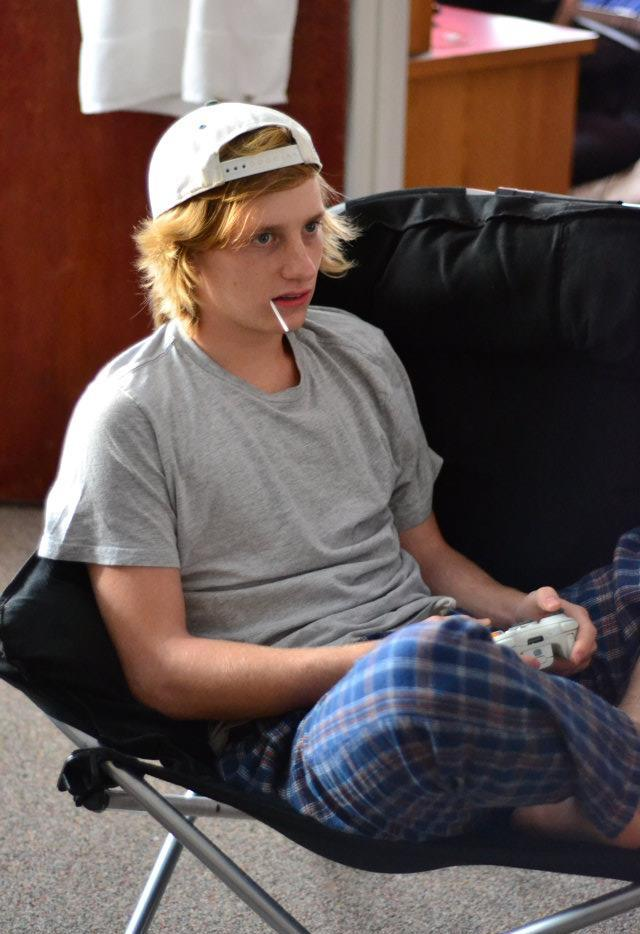
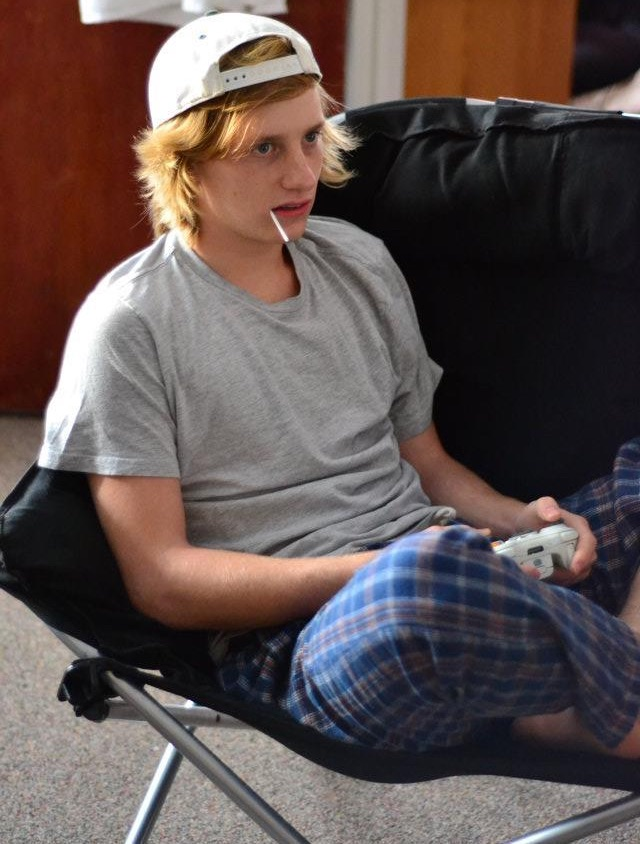
Big Responsive Refactor
Fixed slideshow, about section, lists on about page. Replaced images, added tags

diff --git a/index.html b/index.html
@@ -133,7 +133,7 @@
 				<div class="container">
 					<div style="display: inline-block;">
 						<p>
-							<span>Gaming in College</span>
+							<span>Welcome!</span>
 							<span>photo credit: Michael Laidley</span>
 						</p>
 						<a title='' class="lb_test">
@@ -209,14 +209,24 @@
 				</div>
 			</div>
 			</aside>
-			<p>I code stuff and things</p>
-			<p>Lorem ipsum dolor sit amet, consectetur adipiscing elit. Vivamus orci leo, placerat quis viverra et, dignissim id lorem. In hac habitasse platea dictumst. Orci varius natoque penatibus et magnis dis parturient montes, nascetur ridiculus mus. Aenean ac laoreet quam, quis interdum tortor. Vestibulum in semper justo, ac rutrum diam. Nullam at malesuada leo. Sed pretium erat purus, sed volutpat augue dignissim sit amet. Pellentesque vitae libero lorem. Nam euismod eros est, ut aliquam lacus consequat eu. Fusce aliquet posuere blandit.</p>
-			<p>Lorem ipsum dolor sit amet, consectetur adipiscing elit. Vivamus orci leo, placerat quis viverra et, dignissim id lorem. In hac habitasse platea dictumst. Orci varius natoque penatibus et magnis dis parturient montes, nascetur ridiculus mus. Aenean ac laoreet quam, quis interdum tortor. Vestibulum in semper justo, ac rutrum diam. Nullam at malesuada leo. Sed pretium erat purus, sed volutpat augue dignissim sit amet. Pellentesque vitae libero lorem. Nam euismod eros est, ut aliquam lacus consequat eu. Fusce aliquet posuere blandit.</p>
-			<p>Lorem ipsum dolor sit amet, consectetur adipiscing elit. Vivamus orci leo, placerat quis viverra et, dignissim id lorem. In hac habitasse platea dictumst. Orci varius natoque penatibus et magnis dis parturient montes, nascetur ridiculus mus. Aenean ac laoreet quam, quis interdum tortor. Vestibulum in semper justo, ac rutrum diam. Nullam at malesuada leo. Sed pretium erat purus, sed volutpat augue dignissim sit amet. Pellentesque vitae libero lorem. Nam euismod eros est, ut aliquam lacus consequat eu. Fusce aliquet posuere blandit.</p>
-			<h2>∆                                       ∆<br>∆ ∆  <span>Skills and Qualities</span>  ∆ ∆</h2>
+			<p><br>I code stuff and things.</p>
+			<p>Its mostly for fun while I continue to learn more as a Media QA for <a href="http://www.bamtechmedia.com/">BAMTECH Media</a>.Most of the job includes logging tickets, front-end and data-side verification of code changes, and regressions to ensure products aren't destroyed. This inspired me to start working on my own website/portfolio.</p>
+			<p>Currently studying: Java/Javascript automation. Design best practices, Jquery plugin creation, PHP.</p>
+			<p>Hobbies include skateboarding, snowboarding, web design, video games, listening music and playing music (guitar), watching horror/gore or anime, eating tons of candy, the important things.
+			<ul class="achievements"> 
+				<li>Achievements</li>
+				<li>Charles Guru</li>
+				<li>1700 Jiras and counting</li>
+				<li>NHL.TV initial launch January '06</li>
+				<li>Joined BamHLS/Core team</li>
+				<li>Participated in Syracuse iSchool Challenge</li>
+				<li>QA Team lead: NHL.TV ('06-'07), MLB.TV ('06-'07), SNY.TV ('06-'07), Riot ('07-?)</li>
+			</ul>
+			<h2>∆                                      ∆<br>∆ ∆  <span>Skills and Qualities</span>  ∆ ∆</h2>
 				<ul class="list-skills">
 					<li>HTML5</li>
 					<li>CSS</li>
+					<li>Jira</li>
 					<li>Javascript</li>
 					<li>jQuery</li>
 					<li>SQL</li>
@@ -226,6 +236,7 @@
 					<li>Quality Assurance</li>
 					<li>Jenkins</li>
 					<li>Dank Memes</li>
+					<li>Charles Proxy</li>
 					<li>L33T</li> 
 					<li>Snapchat</li>
 				</ul>
@@ -276,7 +287,7 @@
 
 					
 				</ul>
-			<h2>∆                        ∆<br>∆ ∆  <span>Follow Me</span>  ∆ ∆</h2>
+			<h2>∆                      ∆<br>∆ ∆  <span>Follow Me</span>  ∆ ∆</h2>
 				<ul class="list-social">
 					<li>Github | <a href="https://github.com/jamescmcroberts">jamescmcroberts</a> <a href="https://github.com/jamescmcroberts/maryluke">(1st Repo)</a> <a href="https://github.com/jamescmcroberts/jamescmcroberts">(2nd Repo)</a></li>
 					<li>Xbox Gamertag | <a href="https://www.xboxgamertag.com/search/mcgyna/">McGyna</a></li>
@@ -285,18 +296,15 @@
 					<li>Soundcloud | <a href="https://soundcloud.com/mcgyna">McGyna</a></li>
 					<li>Spotify | <a href="https://open.spotify.com/user/4mcroberts">4mcroberts</a></li>
 					<li>Instagram | <a href="https://www.instagram.com/jamesmcroberts/">jamesmcroberts</a></li>
+					<li>Snapchat | <a href="https://www.snapchat.com/add/jamesmcroberts">jamesmcroberts</a></li>
+					<li>Etsy | <a href="https://www.etsy.com/people/jmethomas25">jmethomas25</a></li>
 				</ul>
-			<h2>∆                    ∆<br>∆ ∆  <span>The End</span>  ∆ ∆</h2>
+			<h2>∆                   ∆<br>∆ ∆  <span>The End</span>  ∆ ∆</h2>
 		</div>
 <!--BEGIN RESUME SECTION
 		<div class="resume">
 			<img src="/content/Resume.png" alt="Resume" />
  		</div>
-				<div> 
-					<a title='Social' target="_blank" class="social-link" href="">
-						<img src="content/" alt="social link"  />
-					</a>
-				</div>-->
 <!--BEGIN CONTACT SECTION-->
 		<div class="contact">
 			<div id="content">
@@ -319,4 +327,3 @@
 				<img src="content/Contact.jpg" alt="Reaching For That Thing"/>
 			</div>
 		</div>
-		<footer>That's all folks</footer>

diff --git a/css/main.css b/css/main.css
@@ -86,6 +86,9 @@ textarea {
     html header nav{text-align:center;}
 }
 @media screen and (max-width:1000px){
+    body .container img {height:150px;}
+    body ul.achievements li{width:100%;}
+
     html body{width:900px;}
     html div.contact img {width:100%;float:none;}
     html #contact-area{width:100%;float:none;}
@@ -112,7 +115,6 @@ textarea {
     div.gallery{width:150px;}
     div.gallery button{font-size:40px;}
     html body{width:100%;}
-    body .container img {height:340px!important;}
     body header h1 img {object-position:inherit;object-fit:scale-down;width:200px;}
     #contact-area label,body #contact-area input,body #contact-area textarea{font-size:15px;}
     body nav ul li {margin:9px;}
@@ -200,11 +202,12 @@ div.gallery{
     display:none;
 }
 .container img{
-    object-position:inherit;
+    object-position:top;
     width:100%;
-    object-fit:scale-down;
-    max-height:150px;
+    object-fit:cover;
+    height:300px;
 }
+
 button{
     position:absolute;
     font-size:30px;
@@ -298,6 +301,9 @@ ul.list span{transition:.5s;margin:0;padding:0;opacity:.9;position:absolute;bott
 
     /*Bio - Follow Links*/
 ul.list-social li{width:100%;}
+
+ul.achievements li{display:block; text-align:center;width:50%;}
+ul.achievements li:first-child {font-size:20px;}
 
 
 /*Footer*/
